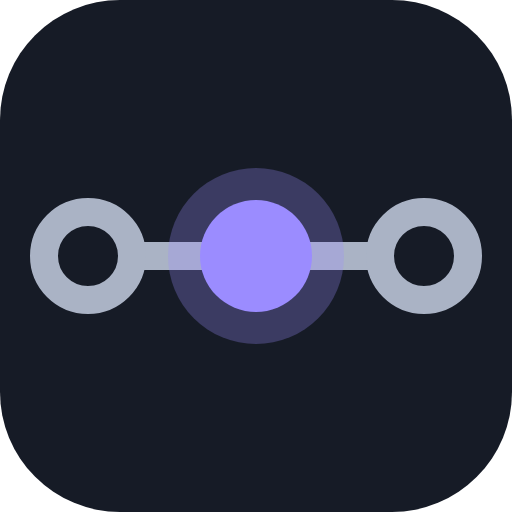
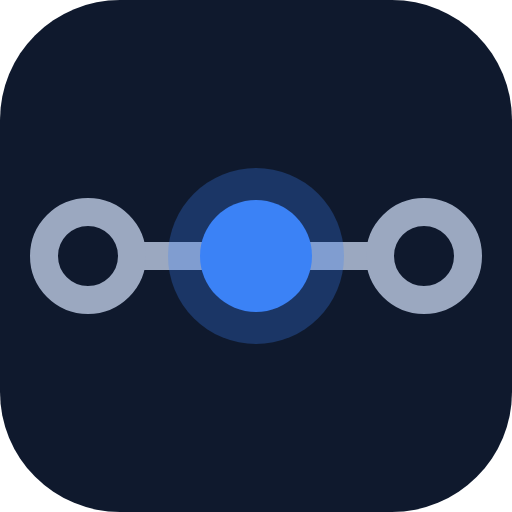
Docs and brand follow the new design; stylesheets never stuck in a cache
The 'dashboard' docs page (es/en) and the README describe the new layout:
status pill, the three figures, the theme button, monitored destinations,
latest events and where the problem is. The brand still had the old violet
node: README logos without a tile, app icons and favicon in the new navy
with the blue node (PNGs re-rendered with transparent corners), new theme
colour and badges.

Stylesheet URLs now carry a fingerprint of their content (app, static demo
and docs): the demo serves /static/* with a one-day cache, so visitors kept
seeing the old design.

Changed region(s): [[0.3125, 0.3125, 0.6875, 0.6875]]

diff --git a/isitmyisp/webapp/templates/invite.html b/isitmyisp/webapp/templates/invite.html
@@ -1,6 +1,6 @@
 <!doctype html>
 <html lang="{{ lang }}"{% if theme %} data-theme="{{ theme }}"{% endif %}><head><meta charset="utf-8"><meta name="viewport" content="width=device-width, initial-scale=1">
-<title>{{ t.invite_title }} · isitmyisp</title><link rel="icon" href="{{ url_for('static', filename='favicon.svg') }}" type="image/svg+xml"><link rel="icon" href="{{ url_for('static', filename='favicon-32.png') }}" sizes="32x32" type="image/png"><link rel="apple-touch-icon" href="{{ url_for('static', filename='apple-touch-icon.png') }}"><link rel="manifest" href="{{ url_for('static', filename='manifest.webmanifest') }}"><meta name="theme-color" content="#0f121a"><link rel="stylesheet" href="{{ url_for('static', filename='style.css') }}"></head>
+<title>{{ t.invite_title }} · isitmyisp</title><link rel="icon" href="{{ url_for('static', filename='favicon.svg') }}" type="image/svg+xml"><link rel="icon" href="{{ url_for('static', filename='favicon-32.png') }}" sizes="32x32" type="image/png"><link rel="apple-touch-icon" href="{{ url_for('static', filename='apple-touch-icon.png') }}"><link rel="manifest" href="{{ url_for('static', filename='manifest.webmanifest') }}"><meta name="theme-color" content="#0a1121"><link rel="stylesheet" href="{{ url_for('static', filename='style.css', v=css_v) }}"></head>
 <body><div class="auth-wrap"><div class="auth">
   <a class="brand" href="/"><img class="mark" src="{{ url_for('static', filename='favicon.svg') }}" alt="" width="32" height="32"><span>isitmyisp</span></a>
   <div class="card"><h3>{{ t.invite_title if not inv.user_id else t.invite_reset_title }}</h3>

diff --git a/isitmyisp/webapp/templates/setup.html b/isitmyisp/webapp/templates/setup.html
@@ -1,6 +1,6 @@
 <!doctype html>
 <html lang="{{ lang }}"{% if theme %} data-theme="{{ theme }}"{% endif %}><head><meta charset="utf-8"><meta name="viewport" content="width=device-width, initial-scale=1">
-<title>{{ t.setup_title }} · isitmyisp</title><link rel="icon" href="{{ url_for('static', filename='favicon.svg') }}" type="image/svg+xml"><link rel="icon" href="{{ url_for('static', filename='favicon-32.png') }}" sizes="32x32" type="image/png"><link rel="apple-touch-icon" href="{{ url_for('static', filename='apple-touch-icon.png') }}"><link rel="manifest" href="{{ url_for('static', filename='manifest.webmanifest') }}"><meta name="theme-color" content="#0f121a"><link rel="stylesheet" href="{{ url_for('static', filename='style.css') }}"></head>
+<title>{{ t.setup_title }} · isitmyisp</title><link rel="icon" href="{{ url_for('static', filename='favicon.svg') }}" type="image/svg+xml"><link rel="icon" href="{{ url_for('static', filename='favicon-32.png') }}" sizes="32x32" type="image/png"><link rel="apple-touch-icon" href="{{ url_for('static', filename='apple-touch-icon.png') }}"><link rel="manifest" href="{{ url_for('static', filename='manifest.webmanifest') }}"><meta name="theme-color" content="#0a1121"><link rel="stylesheet" href="{{ url_for('static', filename='style.css', v=css_v) }}"></head>
 <body><div class="auth-wrap"><div class="auth">
   <a class="brand" href="/"><img class="mark" src="{{ url_for('static', filename='favicon.svg') }}" alt="" width="32" height="32"><span>isitmyisp</span></a>
   <div class="card"><h3>{{ t.setup_title }}</h3><p class="muted">{{ t.setup_sub }}</p>

diff --git a/isitmyisp/webapp/templates/login.html b/isitmyisp/webapp/templates/login.html
@@ -1,6 +1,6 @@
 <!doctype html>
 <html lang="{{ lang }}"{% if theme %} data-theme="{{ theme }}"{% endif %}><head><meta charset="utf-8"><meta name="viewport" content="width=device-width, initial-scale=1">
-<title>{{ t.login_title }} · isitmyisp</title><link rel="icon" href="{{ url_for('static', filename='favicon.svg') }}" type="image/svg+xml"><link rel="icon" href="{{ url_for('static', filename='favicon-32.png') }}" sizes="32x32" type="image/png"><link rel="apple-touch-icon" href="{{ url_for('static', filename='apple-touch-icon.png') }}"><link rel="manifest" href="{{ url_for('static', filename='manifest.webmanifest') }}"><meta name="theme-color" content="#0f121a"><link rel="stylesheet" href="{{ url_for('static', filename='style.css') }}"></head>
+<title>{{ t.login_title }} · isitmyisp</title><link rel="icon" href="{{ url_for('static', filename='favicon.svg') }}" type="image/svg+xml"><link rel="icon" href="{{ url_for('static', filename='favicon-32.png') }}" sizes="32x32" type="image/png"><link rel="apple-touch-icon" href="{{ url_for('static', filename='apple-touch-icon.png') }}"><link rel="manifest" href="{{ url_for('static', filename='manifest.webmanifest') }}"><meta name="theme-color" content="#0a1121"><link rel="stylesheet" href="{{ url_for('static', filename='style.css', v=css_v) }}"></head>
 <body><div class="auth-wrap"><div class="auth">
   <a class="brand" href="/"><img class="mark" src="{{ url_for('static', filename='favicon.svg') }}" alt="" width="32" height="32"><span>isitmyisp</span></a>
   <div class="card"><h3>{{ t.login_title }}</h3>

diff --git a/isitmyisp/webapp/templates/message.html b/isitmyisp/webapp/templates/message.html
@@ -1,6 +1,6 @@
 <!doctype html>
 <html lang="{{ lang }}"{% if theme %} data-theme="{{ theme }}"{% endif %}><head><meta charset="utf-8"><meta name="viewport" content="width=device-width, initial-scale=1">
-<title>isitmyisp</title><link rel="icon" href="{{ url_for('static', filename='favicon.svg') }}" type="image/svg+xml"><link rel="icon" href="{{ url_for('static', filename='favicon-32.png') }}" sizes="32x32" type="image/png"><link rel="apple-touch-icon" href="{{ url_for('static', filename='apple-touch-icon.png') }}"><link rel="manifest" href="{{ url_for('static', filename='manifest.webmanifest') }}"><meta name="theme-color" content="#0f121a"><link rel="stylesheet" href="{{ url_for('static', filename='style.css') }}"></head>
+<title>isitmyisp</title><link rel="icon" href="{{ url_for('static', filename='favicon.svg') }}" type="image/svg+xml"><link rel="icon" href="{{ url_for('static', filename='favicon-32.png') }}" sizes="32x32" type="image/png"><link rel="apple-touch-icon" href="{{ url_for('static', filename='apple-touch-icon.png') }}"><link rel="manifest" href="{{ url_for('static', filename='manifest.webmanifest') }}"><meta name="theme-color" content="#0a1121"><link rel="stylesheet" href="{{ url_for('static', filename='style.css', v=css_v) }}"></head>
 <body><div class="auth-wrap"><div class="auth">
   <a class="brand" href="/"><img class="mark" src="{{ url_for('static', filename='favicon.svg') }}" alt="" width="32" height="32"><span>isitmyisp</span></a>
   <div class="card"><p>{{ message }}</p></div>

diff --git a/isitmyisp/webapp/templates/tv.html b/isitmyisp/webapp/templates/tv.html
@@ -9,7 +9,7 @@
   <meta http-equiv="refresh" content="30">
   <title>{{ t.headline.get(d.code, d.code) if d.has_data else t.headline.no_data }} · isitmyisp</title>
   <link rel="icon" href="{{ url_for('static', filename='favicon.svg') }}" type="image/svg+xml">
-  <link rel="stylesheet" href="{{ url_for('static', filename='style.css') }}">
+  <link rel="stylesheet" href="{{ url_for('static', filename='style.css', v=css_v) }}">
 </head>
 <body class="tv-page">
 {% macro more(h, rot) %}{% if h.bad %}{{ t.board_more.format(n=h.bad + h.none + h.good) }} {{ t.board_more_bad.format(n=h.bad) }} {% endif %}{% if rot %}{{ t.board_rot.format(shown=rot.shown, total=rot.total, page=rot.page, pages=rot.pages) }}{% endif %}{% endmacro %}

diff --git a/isitmyisp/webapp/templates/base.html b/isitmyisp/webapp/templates/base.html
@@ -10,8 +10,8 @@
   <link rel="icon" href="{{ url_for('static', filename='favicon-32.png') }}" sizes="32x32" type="image/png">
   <link rel="apple-touch-icon" href="{{ url_for('static', filename='apple-touch-icon.png') }}">
   <link rel="manifest" href="{{ url_for('static', filename='manifest.webmanifest') }}">
-  <meta name="theme-color" content="#0f121a">
-  <link rel="stylesheet" href="{{ url_for('static', filename='style.css') }}">
+  <meta name="theme-color" content="#0a1121">
+  <link rel="stylesheet" href="{{ url_for('static', filename='style.css', v=css_v) }}">
 </head>
 <body>
 <svg class="sprite" aria-hidden="true" focusable="false">

diff --git a/isitmyisp/webapp/__init__.py b/isitmyisp/webapp/__init__.py
@@ -201,12 +201,16 @@ def create_app(store: Store, *, data_dir: Path | None = None, toml_path: str | N
             return t["verdict"][code]
         return REPORT_STRINGS.get(g.get("lang", "en"), REPORT_STRINGS["en"])["tun_cause"].get(code, code)
 
+    # the stylesheet's URL carries a fingerprint of its content, so a new design is never stuck in a cache
+    import hashlib
+    css_v = hashlib.sha256((Path(__file__).parent / "static" / "style.css").read_bytes()).hexdigest()[:10]
+
     @app.context_processor
     def inject():
         return {"t": g.get("t", S["en"]), "lang": g.get("lang", "en"), "user": g.get("user"),
                 "readonly": g.get("readonly", False), "version": __version__, "demo": app.config["DEMO"],
                 "demo_static": app.config.get("DEMO_STATIC"),
-                "auth_mode": g.settings.auth_mode if g.get("settings") else "local",
+                "auth_mode": g.settings.auth_mode if g.get("settings") else "local", "css_v": css_v,
                 "theme": request.cookies.get("theme") if request.cookies.get("theme") in ("light", "dark") else None,
                 "live": _live()}
 

diff --git a/scripts/build_docs.py b/scripts/build_docs.py
@@ -40,6 +40,9 @@ UI = {
            "demo": "Live demo", "prev": "Previous", "next": "Next", "toc": "On this page",
            "menu": "Menu", "edit": "Edit this page", "skip": "Skip to content", "other": "Español"},
 }
+# the stylesheet's URL carries a fingerprint of its content, so a new look is never stuck in a cache
+import hashlib  # noqa: E402
+CSS_V = hashlib.sha256((Path(__file__).resolve().parents[1] / "docs" / "site" / "docs.css").read_bytes()).hexdigest()[:10]
 CSP = ("default-src 'none'; style-src 'self'; img-src 'self' data:; font-src 'self'; "
        "form-action 'none'; frame-ancestors 'none'; base-uri 'none'")
 
@@ -117,7 +120,7 @@ def page(lang: str, slug: str, meta: dict, body: str, toc, titles: dict, order: 
 <link rel="alternate" hreflang="{other}" href="{url(other, slug)}">
 <link rel="icon" href="/static/favicon.svg" type="image/svg+xml">
 <link rel="icon" href="/static/favicon-32.png" sizes="32x32" type="image/png">
-<link rel="stylesheet" href="/docs/docs.css">
+<link rel="stylesheet" href="/docs/docs.css?v={CSS_V}">
 </head>
 <body>
 <a class="skip" href="#content">{t["skip"]}</a>

diff --git a/tests/test_webapp.py b/tests/test_webapp.py
@@ -755,3 +755,11 @@ class DashboardLook(WebAppBase):
         for part in ('class="status-pill g-good"', "Connection stable", 'class="card kpi"', "Availability, 24 h",
                      'class="theme-btn to-dark"', 'class="theme-btn to-light"', 'class="sys', "Monitor running"):
             self.assertIn(part, page)
+
+
+class AssetFingerprint(WebAppBase):
+    def test_stylesheet_url_changes_with_its_content(self):
+        import hashlib
+        css = (Path(__file__).resolve().parents[1] / "isitmyisp" / "webapp" / "static" / "style.css").read_bytes()
+        self.create_admin()
+        self.assertIn(f"style.css?v={hashlib.sha256(css).hexdigest()[:10]}", self.client.get("/").get_data(as_text=True))

diff --git a/tests/test_docs.py b/tests/test_docs.py
@@ -42,6 +42,7 @@ class DocsSite(unittest.TestCase):
             page = self.html(url)
             for href in re.findall(r'(?:href|src)="(/[^"]*)"', page):
                 path, _, frag = href.partition("#")
+                path = path.split("?", 1)[0]
                 if re.match(r"/(es|en)/[a-z]+/$", path):          # demo pages, exported separately
                     continue
                 target = self.out / path.lstrip("/")

diff --git a/docs/site/es/dashboard.md b/docs/site/es/dashboard.md
@@ -1,12 +1,12 @@
 ---
 title: El panel
-description: Cómo leer el panel de isitmyisp, el camino, los colores, la línea de 24 horas y cada sección.
+description: Cómo leer el panel de isitmyisp: el estado, los indicadores, el camino, las últimas 24 horas y cada tarjeta.
 ---
 # El panel
 
-El panel se actualiza solo cada 30 segundos. Arriba está la respuesta y abajo, la evidencia.
+El panel se actualiza solo cada 30 segundos. Arriba está la respuesta y debajo, la evidencia.
 
-![El panel completo](/docs/img/es/dashboard-dark.png)
+![El panel durante un problema en la red del ISP](/docs/img/es/incident.png)
 
 ## Los colores dicen de quién es
 
@@ -15,28 +15,26 @@ En todo el panel, los colores indican **responsabilidad**, no "bien o mal":
 | Color | Significa |
 |---|---|
 | Verde | Anda bien |
-| Amarillo | El problema está de tu lado: tu Wi-Fi, tu red o tu router |
+| Naranja | El problema está de tu lado: tu Wi-Fi, tu red o tu router |
 | Rojo | El problema está en la red de tu ISP |
 | Gris | Otros: un servicio puntual, un sitio remoto, o no se puede saber |
 
 Los colores siempre van acompañados de texto o de un ícono, así se entiende aunque no los distingas bien.
 
-## El veredicto y el camino
+## Arriba: el estado y el tema
 
-Arriba de todo está el veredicto en una frase ("Falla la red de tu ISP", "Internet anda bien"…) y qué hacer.
+- **La píldora de estado** resume todo en dos palabras: "Conexión estable", "Falla tu ISP", "Problema de tu lado"…
+- **El botón de la luna o el sol** cambia entre modo claro y oscuro, y lo recuerda en ese navegador. Hasta que lo toques, el panel sigue la configuración de tu sistema.
 
-Debajo está **el camino**: *Tu red → Tu ISP → Internet*, con la latencia y la pérdida de cada tramo. El tramo donde está el problema aparece marcado con "acá". Si la oficina está en el enlace de respaldo, el tramo del ISP lo indica.
+## El veredicto y los tres indicadores
 
-## Qué descartamos
+A la izquierda está el veredicto en una frase ("Falla la red de tu ISP", "Internet anda bien"), con un ícono grande del color del responsable. Al lado hay tres indicadores, cada uno con un minigráfico de las últimas 24 horas:
 
-Cuando el problema es del ISP, una lista dice **qué descarta la evidencia** y **qué no puede descartar**:
+- **Disponibilidad, 24 h:** qué parte del tiempo medido la conexión anduvo bien. La flecha compara con las 24 horas anteriores.
+- **Sin cortes:** cuánto pasó desde el último problema en tu conexión. Si hay uno en curso, la tarjeta pasa a **"Con problemas hace"** y muestra su duración en rojo.
+- **Latencia a internet:** la mediana de lo que tardan los destinos de internet en responder. Si bajó respecto del día anterior, la flecha es verde.
 
-- **Puede descartar:** tu red local, el ruido de ICMP, un único sitio caído y, si conectaste el router por SNMP, el enlace lleno por tráfico propio.
-- **No puede descartar:** lo que no midió. Si no está conectado al router, no puede saber si el enlace estaba lleno, y lo dice.
-
-Es lo que le da credibilidad frente al ISP.
-
-## Las últimas 24 horas
+## Últimas 24 horas
 
 Una línea de tiempo con varias filas que comparten el mismo eje:
 
@@ -45,22 +43,29 @@ Una línea de tiempo con varias filas que comparten el mismo eje:
 - **Llamadas:** la calidad estimada, si las tenés configuradas.
 - **Respaldo:** cuándo estuvo la oficina en el enlace secundario, si pasó.
 
-Pasá el mouse por encima para ver los valores exactos de cada momento. Cada gráfico tiene también una vista en tabla.
+Pasá el mouse por encima para ver los valores exactos de cada momento. Debajo hay una vista en tabla con los mismos datos.
 
-## Tu red, punto por punto
+## Destinos monitoreados
 
-Cada destino que se mide, con el último valor y las últimas 6 horas: tu router, el primer salto del ISP, los destinos de internet (por ping y por TCP) y tus servidores DNS.
+Cada destino que se mide, con su latencia actual y su minigráfico de las últimas 6 horas: tu router, el primer salto del ISP, los destinos de internet y tus servidores DNS. El punto de color dice cómo está. Si un destino pierde paquetes, el porcentaje aparece en rojo debajo de la latencia.
 
-## El enlace, la velocidad y las llamadas
+## Últimos eventos
 
-- **Uso del enlace:** cuánto de lo contratado se está usando ahora, si conectaste el router por SNMP. Por encima del 85 % se marca como lleno.
-- **Velocidad:** el último test, comparado con lo que contrataste.
-- **Llamadas:** el MOS estimado (de 1 a 5) y si una llamada se escucharía bien ahora.
+Los incidentes recientes, del más nuevo al más viejo, con hace cuánto empezaron y cuánto duraron ("hace 2 h (5 min)"). Si un mismo problema se repite seguido, se agrupa en una sola línea (por ejemplo, "×4"). "Ver todos" lleva a **Incidentes**, con la evidencia completa de cada uno.
 
-## Servicios y túneles
+## Dónde está el problema
 
-El estado de cada servicio y de cada túnel que agregaste: si responde, cuánto tarda y desde cuándo está así.
+**El camino**: *Tu red → Tu ISP → Internet*, con la latencia y la pérdida de cada tramo. El punto donde está el problema aparece marcado con "La evidencia apunta acá". Si la oficina está en el enlace de respaldo, el tramo del ISP lo indica.
 
-## Últimos incidentes
+Debajo del camino están:
 
-Los incidentes recientes, con la hora, la causa, la duración y si siguen abiertos. Si un mismo problema se repite seguido, se agrupa en una sola fila (por ejemplo, "×4"). El detalle completo, con la evidencia de cada uno, está en **Incidentes**.
+- **Qué hacer**, según quién es el responsable.
+- **El incidente activo**, si hay uno, con su evidencia y **qué descarta la evidencia** (tu red local, el ruido de ICMP, un único sitio caído y, si conectaste el router por SNMP, el enlace lleno por tráfico propio) y qué no puede descartar.
+- **El resumen del día** y los botones del **informe para tu ISP** (en HTML o PDF).
+- **Cortes breves**: los problemas de menos de un minuto, que no llegan a ser incidente.
+
+## Tu enlace, llamadas, servicios y túneles
+
+- **Tu enlace (desde tu router):** cuánto de lo contratado se está usando ahora, si conectaste el router por SNMP. Por encima del 85 % se marca como lleno. Debajo, el último **test de velocidad** comparado con lo que contrataste.
+- **Calidad para llamadas:** el MOS estimado (de 1 a 5) y si una llamada se escucharía bien ahora.
+- **Tus servicios y túneles:** si cada uno responde, cuánto tarda y desde cuándo está así.

diff --git a/docs/site/en/dashboard.md b/docs/site/en/dashboard.md
@@ -1,12 +1,12 @@
 ---
 title: The dashboard
-description: How to read the isitmyisp dashboard: the path, the colours, the 24-hour timeline and every section.
+description: How to read the isitmyisp dashboard: the status, the figures, the path, the last 24 hours and every card.
 ---
 # The dashboard
 
 The dashboard refreshes itself every 30 seconds. The answer is at the top; the evidence is below it.
 
-![The full dashboard](/docs/img/dashboard-dark.png)
+![The dashboard during a problem in the ISP's network](/docs/img/incident.png)
 
 ## Colours mean whose side it is
 
@@ -15,28 +15,26 @@ Throughout the dashboard, colours mean **responsibility**, not "good or bad":
 | Colour | Means |
 |---|---|
 | Green | Working fine |
-| Yellow | The problem is on your side: your Wi-Fi, your network or your router |
+| Orange | The problem is on your side: your Wi-Fi, your network or your router |
 | Red | The problem is in your ISP's network |
 | Grey | Others: a single service, a remote site, or it can't be told |
 
 Colours always come with text or an icon, so they still read if you can't tell them apart.
 
-## The verdict and the path
+## At the top: the status and the theme
 
-At the very top is the verdict in one sentence ("Your ISP's network is failing", "The internet is working"…) and what to do.
+- **The status pill** sums it all up in a couple of words: "Connection stable", "Your ISP is failing", "Problem on your side"…
+- **The moon or sun button** switches between light and dark mode and remembers it in that browser. Until you press it, the dashboard follows your system's setting.
 
-Below it is **the path**: *Your network → Your ISP → Internet*, with the latency and loss of each segment. The segment with the problem is marked "here". If the office is on the backup link, the ISP segment says so.
+## The verdict and the three figures
 
-## What we ruled out
+On the left is the verdict in one sentence ("Your ISP's network is failing", "The internet is working"), with a large icon in the colour of whoever is responsible. Beside it are three figures, each with a small chart of the last 24 hours:
 
-When the problem is the ISP's, a list says **what the evidence rules out** and **what it can't**:
+- **Availability, 24 h:** how much of the measured time the connection worked. The arrow compares it with the 24 hours before.
+- **Without outages:** how long since the last problem with your connection. While one is going on, the card turns into **"Problem going on for"** and shows its duration in red.
+- **Latency to the internet:** the median time the internet destinations take to answer. When it went down compared with the day before, the arrow is green.
 
-- **It can rule out:** your LAN, ICMP noise, a single website being down and, if you connected the router over SNMP, a link full of your own traffic.
-- **It can't rule out:** what it didn't measure. Without the router connected, it can't know whether the link was full, and it says so.
-
-That's what makes it credible to the ISP.
-
-## The last 24 hours
+## Last 24 hours
 
 A timeline with several rows on the same time axis:
 
@@ -45,22 +43,29 @@ A timeline with several rows on the same time axis:
 - **Calls:** estimated call quality, if set up.
 - **Backup:** when the office was on the secondary link, if it happened.
 
-Hover to read the exact values at any moment. Every chart also has a table view.
+Hover to read the exact values at any moment. Below it there's a table view with the same data.
 
-## Your network, point by point
+## Monitored destinations
 
-Every measured destination, with its latest value and the last 6 hours: your router, the ISP's first hop, the internet destinations (over ping and TCP) and your DNS servers.
+Every measured destination, with its current latency and a small chart of the last 6 hours: your router, the ISP's first hop, the internet destinations and your DNS servers. The coloured dot says how it's doing. When a destination loses packets, the percentage shows in red under its latency.
 
-## Link, speed and calls
+## Latest events
 
-- **Link usage:** how much of your plan is in use right now, if you connected the router over SNMP. Above 85 % it's marked as full.
-- **Speed:** the last test, against what you pay for.
-- **Calls:** the estimated MOS (1 to 5) and whether a call would sound good now.
+Recent incidents, newest first, with how long ago they started and how long they lasted ("2 h ago (5 min)"). When the same problem repeats close together it's folded into one line (for example "×4"). "See all" leads to **Incidents**, with each one's full evidence.
 
-## Services and tunnels
+## Where the problem is
 
-The state of every service and tunnel you added: whether it answers, how fast and since when.
+**The path**: *Your network → Your ISP → Internet*, with the latency and loss of each segment. The point with the problem is marked "The evidence points here". If the office is on the backup link, the ISP segment says so.
 
-## Latest incidents
+Below the path:
 
-Recent incidents with the time, the cause, the duration and whether they're still open. When the same problem repeats close together it's folded into one row (for example "×4"). The full detail, with each one's evidence, is under **Incidents**.
+- **What to do**, depending on who is responsible.
+- **The active incident**, if there is one, with its evidence, **what the evidence rules out** (your LAN, ICMP noise, a single website being down and, if you connected the router over SNMP, a link full of your own traffic) and what it can't.
+- **The day's summary** and the buttons for the **report for your ISP** (HTML or PDF).
+- **Brief drops**: problems shorter than a minute, too short to become an incident.
+
+## Your link, calls, services and tunnels
+
+- **Your link (from your router):** how much of your plan is in use right now, if you connected the router over SNMP. Above 85 % it's marked as full. Below it, the latest **speed test** against what you pay for.
+- **Call quality:** the estimated MOS (1 to 5) and whether a call would sound good now.
+- **Your services and tunnels:** whether each one answers, how fast and since when.
